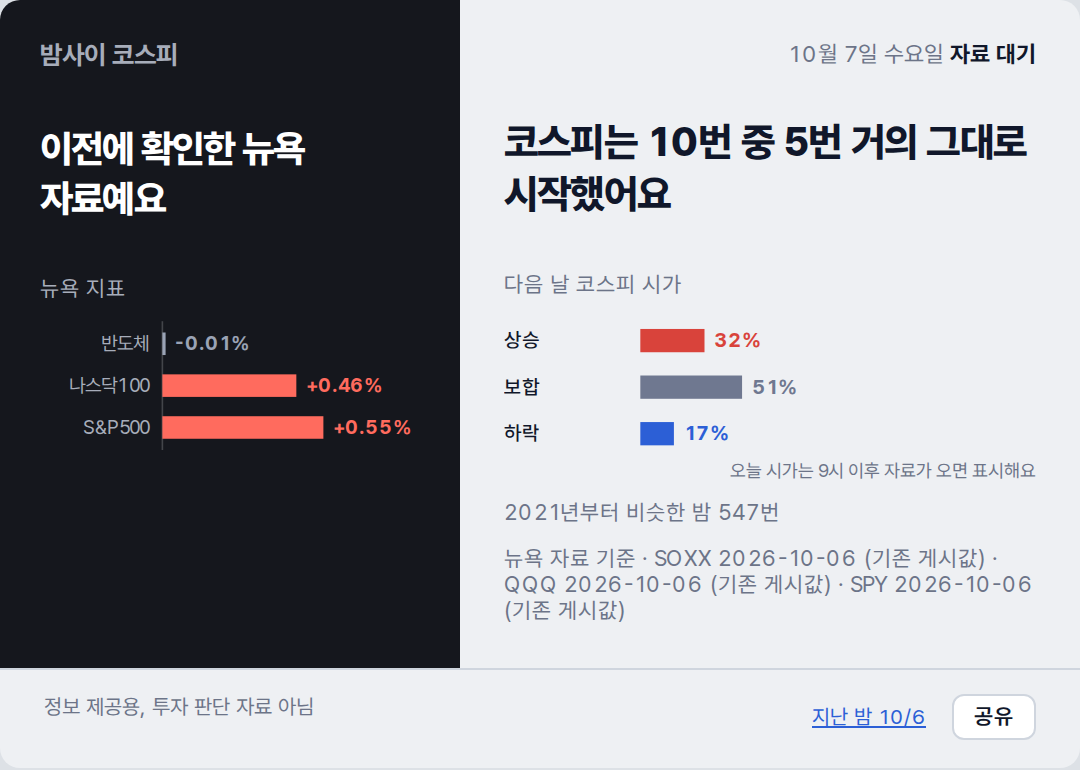
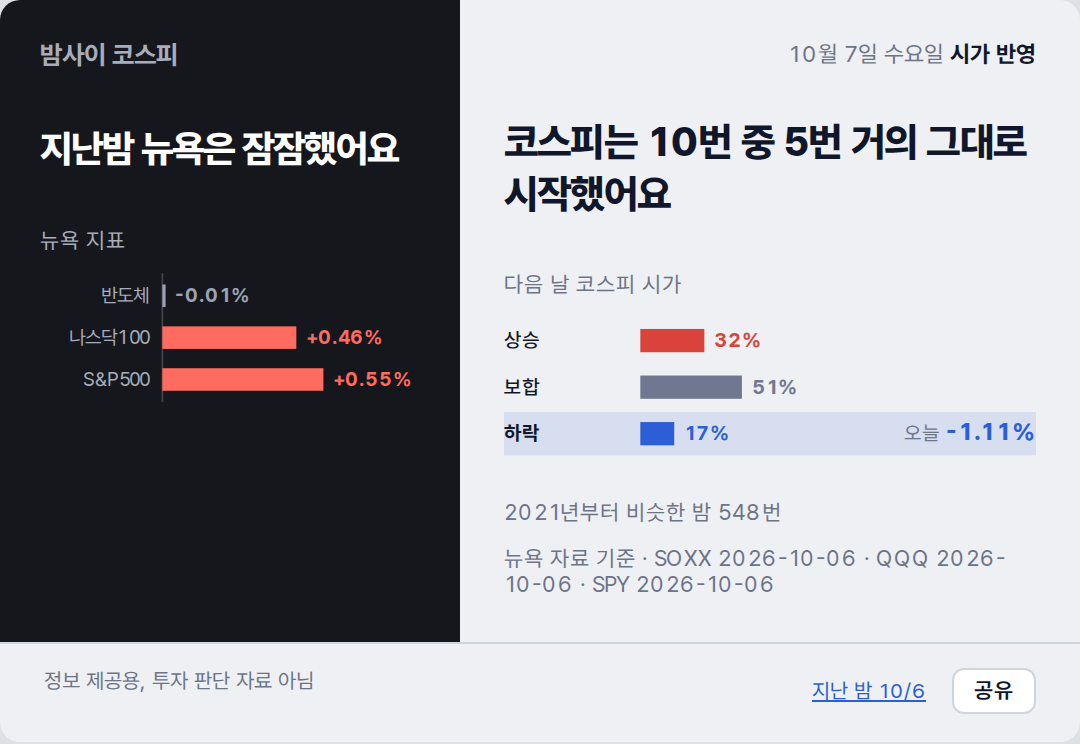
deploy: c0d07a214321b41f7cf333fef670b17ffe5b5852

diff --git a/2026-10-07/index.html b/2026-10-07/index.html
@@ -2,7 +2,7 @@
 <title>밤사이 코스피 · 2026-10-07</title>
 <meta name="description" content="전일 코스피 마감에서 밤사이 뉴욕을 거쳐 오늘 코스피 시가까지, 한 장.">
 <meta property="og:type" content="article"><meta property="og:site_name" content="밤사이 코스피"><meta property="og:url" content="https://mjs0611.github.io/kospi-relay/2026-10-07/">
-<meta property="og:title" content="이전에 확인한 뉴욕 자료예요"><meta property="og:description" content="코스피는 10번 중 5번 거의 그대로 시작했어요">
+<meta property="og:title" content="지난밤 뉴욕은 잠잠했어요"><meta property="og:description" content="코스피는 10번 중 5번 거의 그대로 시작했어요">
 <meta property="og:image" content="https://mjs0611.github.io/kospi-relay/2026-10-07/relay.png"><meta property="og:image:width" content="1080"><meta name="twitter:card" content="summary_large_image">
 <link rel="stylesheet" href="https://cdn.jsdelivr.net/gh/orioncactus/pretendard@v1.3.9/dist/web/variable/pretendardvariable-dynamic-subset.min.css">
 <style>
@@ -26,7 +26,7 @@ footer a{color:#2C5FD6}
 .share{margin-left:10px;border:1px solid #CFD5DE;background:#FFF;color:#10172A;border-radius:6px;padding:4px 10px;font:600 11px var(--sans);cursor:pointer}
 @media (max-width:480px){.sheet{grid-template-columns:1fr}.cond{margin-top:18px}.claim{margin-top:4px}}
 </style></head><body><div class="sheet">
-<section class="night"><p class="brand">밤사이 코스피</p><p class="cond">이전에 확인한 뉴욕 자료예요</p><p class="lab">뉴욕 지표</p><svg viewBox="0 0 236 84" xmlns="http://www.w3.org/2000/svg" font-family="var(--sans)" font-size="12">
+<section class="night"><p class="brand">밤사이 코스피</p><p class="cond">지난밤 뉴욕은 잠잠했어요</p><p class="lab">뉴욕 지표</p><svg viewBox="0 0 236 84" xmlns="http://www.w3.org/2000/svg" font-family="var(--sans)" font-size="12">
 <line x1="76" y1="2" x2="76" y2="82" stroke="var(--rule)" stroke-width="1"/>
 <text x="68" y="20" text-anchor="end" fill="var(--muted)">반도체</text>
 <rect x="76" y="9" width="2.0" height="14" fill="var(--flat)"/>
@@ -38,23 +38,24 @@ footer a{color:#2C5FD6}
 <rect x="76" y="61" width="100.0" height="14" fill="var(--up)"/>
 <text x="182.0" y="72" fill="var(--up)" font-weight="700">+0.55%</text>
 </svg></section>
-<section class="day"><p class="stamp">10월 7일 수요일 <b>자료 대기</b></p><p class="claim">코스피는 10번 중 5번 거의 그대로 시작했어요</p><p class="lab">다음 날 코스피 시가</p><svg viewBox="0 0 320 100" xmlns="http://www.w3.org/2000/svg" font-family="var(--sans)" font-size="12">
+<section class="day"><p class="stamp">10월 7일 수요일 <b>시가 반영</b></p><p class="claim">코스피는 10번 중 5번 거의 그대로 시작했어요</p><p class="lab">다음 날 코스피 시가</p><svg viewBox="0 0 320 100" xmlns="http://www.w3.org/2000/svg" font-family="var(--sans)" font-size="12">
 <text x="0" y="20" fill="var(--ink)" font-weight="500">상승</text>
-<rect x="82" y="9" width="38.6" height="14" fill="var(--up)"/>
-<text x="126.6" y="20" fill="var(--up)" font-weight="700">32%</text>
+<rect x="82" y="9" width="38.5" height="14" fill="var(--up)"/>
+<text x="126.5" y="20" fill="var(--up)" font-weight="700">32%</text>
 <text x="0" y="48" fill="var(--ink)" font-weight="500">보합</text>
-<rect x="82" y="37" width="61.2" height="14" fill="var(--flat)"/>
-<text x="149.2" y="48" fill="var(--flat)" font-weight="700">51%</text>
-<text x="0" y="76" fill="var(--ink)" font-weight="500">하락</text>
-<rect x="82" y="65" width="20.2" height="14" fill="var(--down)"/>
-<text x="108.2" y="76" fill="var(--down)" font-weight="700">17%</text>
-<text x="320" y="98" text-anchor="end" fill="var(--muted)" font-size="11">오늘 시가는 9시 이후 자료가 오면 표시해요</text>
-</svg><p class="cap">2021년부터 비슷한 밤 547번</p><p class="cap">뉴욕 자료 기준 · SOXX 2026-10-06 (기존 게시값) · QQQ 2026-10-06 (기존 게시값) · SPY 2026-10-06 (기존 게시값)</p></section>
+<rect x="82" y="37" width="61.1" height="14" fill="var(--flat)"/>
+<text x="149.1" y="48" fill="var(--flat)" font-weight="700">51%</text>
+<rect x="0" y="59" width="320" height="26" fill="var(--down)" opacity=".12"/>
+<text x="0" y="76" fill="var(--ink)" font-weight="700">하락</text>
+<rect x="82" y="65" width="20.4" height="14" fill="var(--down)"/>
+<text x="108.4" y="76" fill="var(--down)" font-weight="700">17%</text>
+<text x="320" y="76" text-anchor="end" fill="var(--ink)"><tspan fill="var(--muted)">오늘 </tspan><tspan font-weight="800" font-size="14" fill="var(--down)">-1.11%</tspan></text>
+</svg><p class="cap">2021년부터 비슷한 밤 548번</p><p class="cap">뉴욕 자료 기준 · SOXX 2026-10-06 · QQQ 2026-10-06 · SPY 2026-10-06</p></section>
 <footer><span>정보 제공용, 투자 판단 자료 아님</span><span style="white-space:nowrap"><a href="../2026-10-06/">지난 밤 10/6</a> <button class="share" type="button">공유</button></span></footer>
 <script>
 /* 공유: Web Share가 있으면 시스템 공유 시트, 없으면 링크 복사. 링크는 이 날짜 페이지(OG 카드 붙음) */
 document.querySelector('.share').addEventListener('click', async function () {
-  var url = 'https://mjs0611.github.io/kospi-relay/2026-10-07/', text = "이전에 확인한 뉴욕 자료예요. 코스피는 10번 중 5번 거의 그대로 시작했어요";
+  var url = 'https://mjs0611.github.io/kospi-relay/2026-10-07/', text = "지난밤 뉴욕은 잠잠했어요. 코스피는 10번 중 5번 거의 그대로 시작했어요";
   try { if (navigator.share) { await navigator.share({ title: '밤사이 코스피', text: text, url: url }); return; } } catch (e) { if (e && e.name === 'AbortError') return; }
   try { await navigator.clipboard.writeText(text + '\n' + url); this.textContent = '링크 복사됨'; } catch (e) { location.href = url; }
 });

diff --git a/index.html b/index.html
@@ -2,7 +2,7 @@
 <title>밤사이 코스피 · 2026-10-07</title>
 <meta name="description" content="전일 코스피 마감에서 밤사이 뉴욕을 거쳐 오늘 코스피 시가까지, 한 장.">
 <meta property="og:type" content="article"><meta property="og:site_name" content="밤사이 코스피"><meta property="og:url" content="https://mjs0611.github.io/kospi-relay/2026-10-07/">
-<meta property="og:title" content="이전에 확인한 뉴욕 자료예요"><meta property="og:description" content="코스피는 10번 중 5번 거의 그대로 시작했어요">
+<meta property="og:title" content="지난밤 뉴욕은 잠잠했어요"><meta property="og:description" content="코스피는 10번 중 5번 거의 그대로 시작했어요">
 <meta property="og:image" content="https://mjs0611.github.io/kospi-relay/2026-10-07/relay.png"><meta property="og:image:width" content="1080"><meta name="twitter:card" content="summary_large_image">
 <link rel="stylesheet" href="https://cdn.jsdelivr.net/gh/orioncactus/pretendard@v1.3.9/dist/web/variable/pretendardvariable-dynamic-subset.min.css">
 <style>
@@ -26,7 +26,7 @@ footer a{color:#2C5FD6}
 .share{margin-left:10px;border:1px solid #CFD5DE;background:#FFF;color:#10172A;border-radius:6px;padding:4px 10px;font:600 11px var(--sans);cursor:pointer}
 @media (max-width:480px){.sheet{grid-template-columns:1fr}.cond{margin-top:18px}.claim{margin-top:4px}}
 </style></head><body><div class="sheet">
-<section class="night"><p class="brand">밤사이 코스피</p><p class="cond">이전에 확인한 뉴욕 자료예요</p><p class="lab">뉴욕 지표</p><svg viewBox="0 0 236 84" xmlns="http://www.w3.org/2000/svg" font-family="var(--sans)" font-size="12">
+<section class="night"><p class="brand">밤사이 코스피</p><p class="cond">지난밤 뉴욕은 잠잠했어요</p><p class="lab">뉴욕 지표</p><svg viewBox="0 0 236 84" xmlns="http://www.w3.org/2000/svg" font-family="var(--sans)" font-size="12">
 <line x1="76" y1="2" x2="76" y2="82" stroke="var(--rule)" stroke-width="1"/>
 <text x="68" y="20" text-anchor="end" fill="var(--muted)">반도체</text>
 <rect x="76" y="9" width="2.0" height="14" fill="var(--flat)"/>
@@ -38,23 +38,24 @@ footer a{color:#2C5FD6}
 <rect x="76" y="61" width="100.0" height="14" fill="var(--up)"/>
 <text x="182.0" y="72" fill="var(--up)" font-weight="700">+0.55%</text>
 </svg></section>
-<section class="day"><p class="stamp">10월 7일 수요일 <b>자료 대기</b></p><p class="claim">코스피는 10번 중 5번 거의 그대로 시작했어요</p><p class="lab">다음 날 코스피 시가</p><svg viewBox="0 0 320 100" xmlns="http://www.w3.org/2000/svg" font-family="var(--sans)" font-size="12">
+<section class="day"><p class="stamp">10월 7일 수요일 <b>시가 반영</b></p><p class="claim">코스피는 10번 중 5번 거의 그대로 시작했어요</p><p class="lab">다음 날 코스피 시가</p><svg viewBox="0 0 320 100" xmlns="http://www.w3.org/2000/svg" font-family="var(--sans)" font-size="12">
 <text x="0" y="20" fill="var(--ink)" font-weight="500">상승</text>
-<rect x="82" y="9" width="38.6" height="14" fill="var(--up)"/>
-<text x="126.6" y="20" fill="var(--up)" font-weight="700">32%</text>
+<rect x="82" y="9" width="38.5" height="14" fill="var(--up)"/>
+<text x="126.5" y="20" fill="var(--up)" font-weight="700">32%</text>
 <text x="0" y="48" fill="var(--ink)" font-weight="500">보합</text>
-<rect x="82" y="37" width="61.2" height="14" fill="var(--flat)"/>
-<text x="149.2" y="48" fill="var(--flat)" font-weight="700">51%</text>
-<text x="0" y="76" fill="var(--ink)" font-weight="500">하락</text>
-<rect x="82" y="65" width="20.2" height="14" fill="var(--down)"/>
-<text x="108.2" y="76" fill="var(--down)" font-weight="700">17%</text>
-<text x="320" y="98" text-anchor="end" fill="var(--muted)" font-size="11">오늘 시가는 9시 이후 자료가 오면 표시해요</text>
-</svg><p class="cap">2021년부터 비슷한 밤 547번</p><p class="cap">뉴욕 자료 기준 · SOXX 2026-10-06 (기존 게시값) · QQQ 2026-10-06 (기존 게시값) · SPY 2026-10-06 (기존 게시값)</p></section>
+<rect x="82" y="37" width="61.1" height="14" fill="var(--flat)"/>
+<text x="149.1" y="48" fill="var(--flat)" font-weight="700">51%</text>
+<rect x="0" y="59" width="320" height="26" fill="var(--down)" opacity=".12"/>
+<text x="0" y="76" fill="var(--ink)" font-weight="700">하락</text>
+<rect x="82" y="65" width="20.4" height="14" fill="var(--down)"/>
+<text x="108.4" y="76" fill="var(--down)" font-weight="700">17%</text>
+<text x="320" y="76" text-anchor="end" fill="var(--ink)"><tspan fill="var(--muted)">오늘 </tspan><tspan font-weight="800" font-size="14" fill="var(--down)">-1.11%</tspan></text>
+</svg><p class="cap">2021년부터 비슷한 밤 548번</p><p class="cap">뉴욕 자료 기준 · SOXX 2026-10-06 · QQQ 2026-10-06 · SPY 2026-10-06</p></section>
 <footer><span>정보 제공용, 투자 판단 자료 아님</span><span style="white-space:nowrap"><a href="./2026-10-06/">지난 밤 10/6</a> <button class="share" type="button">공유</button></span></footer>
 <script>
 /* 공유: Web Share가 있으면 시스템 공유 시트, 없으면 링크 복사. 링크는 이 날짜 페이지(OG 카드 붙음) */
 document.querySelector('.share').addEventListener('click', async function () {
-  var url = 'https://mjs0611.github.io/kospi-relay/2026-10-07/', text = "이전에 확인한 뉴욕 자료예요. 코스피는 10번 중 5번 거의 그대로 시작했어요";
+  var url = 'https://mjs0611.github.io/kospi-relay/2026-10-07/', text = "지난밤 뉴욕은 잠잠했어요. 코스피는 10번 중 5번 거의 그대로 시작했어요";
   try { if (navigator.share) { await navigator.share({ title: '밤사이 코스피', text: text, url: url }); return; } } catch (e) { if (e && e.name === 'AbortError') return; }
   try { await navigator.clipboard.writeText(text + '\n' + url); this.textContent = '링크 복사됨'; } catch (e) { location.href = url; }
 });
